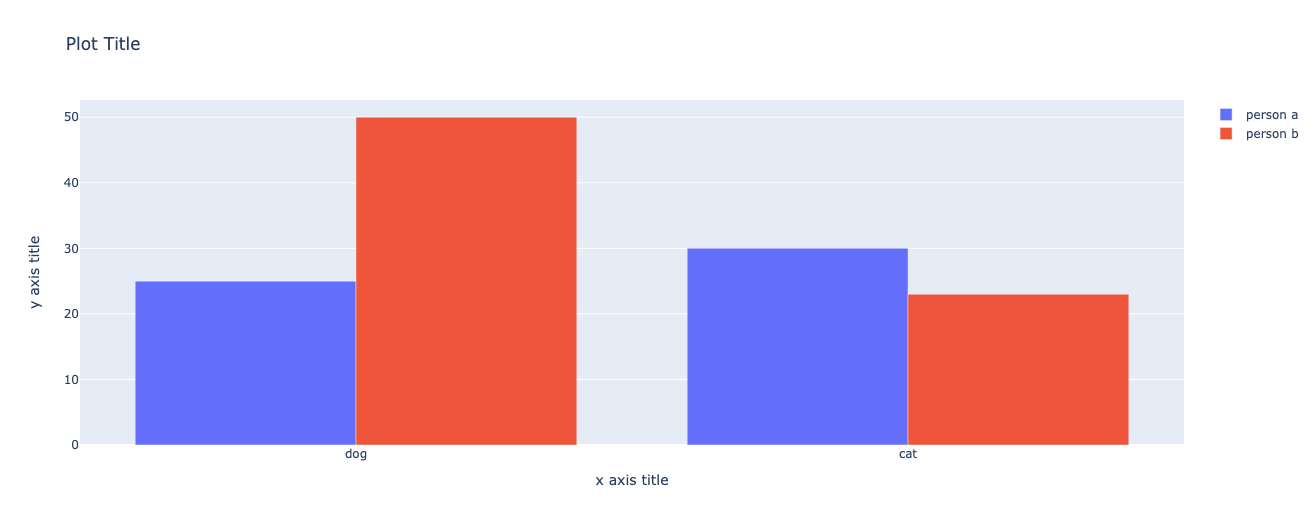
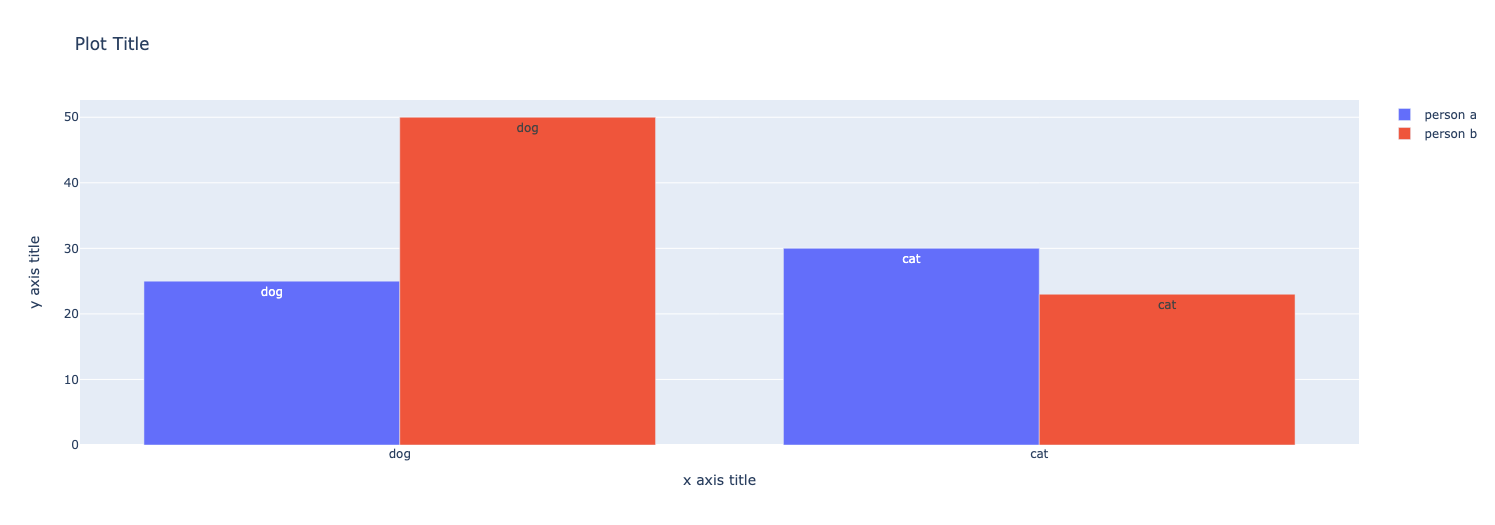
added note on how to add text in bar chart

diff --git a/content/cs9/unit01/project/resources/_index.md b/content/cs9/unit01/project/resources/_index.md
@@ -265,8 +265,8 @@ person2df
 
 ```python
 fig = go.Figure(data=[
-    go.Bar(name='person a', x=person1df.animal, y=person1df.count),
-    go.Bar(name='person b', x=person2df.animal, y=person2df.count)
+    go.Bar(name='person a', x=person1df.animal, y=person1df.count, text=df1.Name),
+    go.Bar(name='person b', x=person2df.animal, y=person2df.count, text=df2.Name)
 ])
 
 
